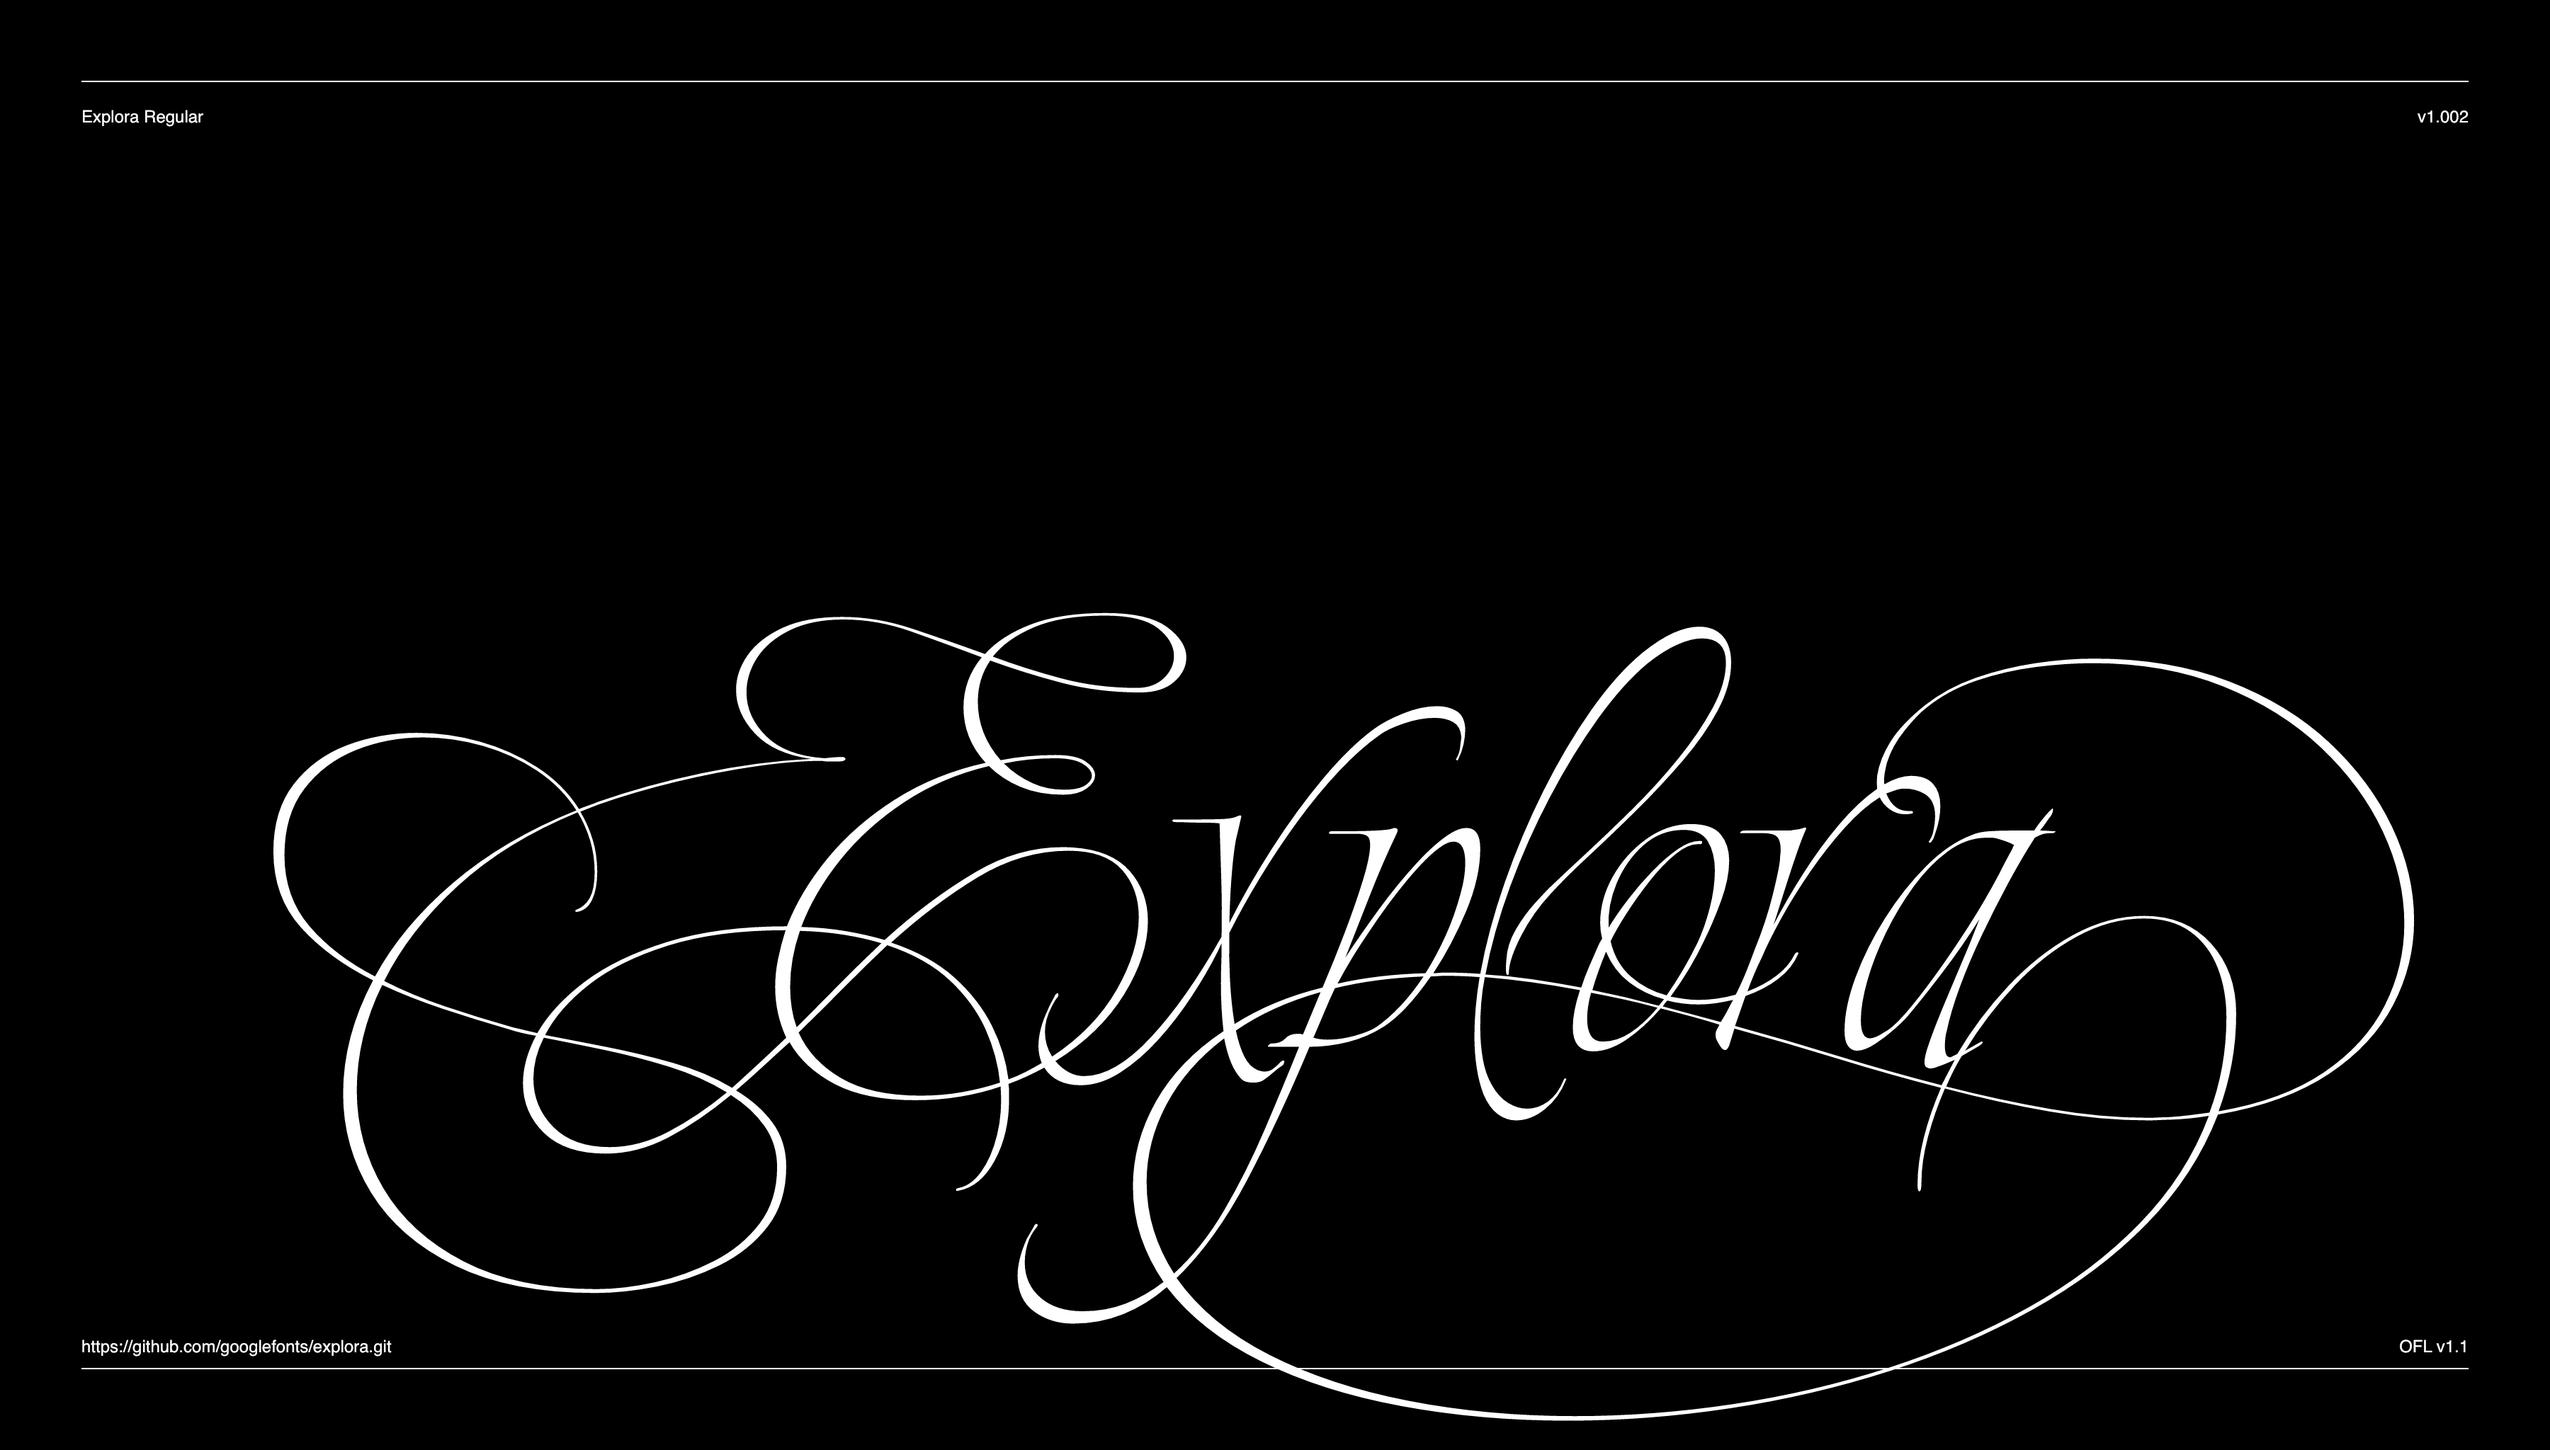
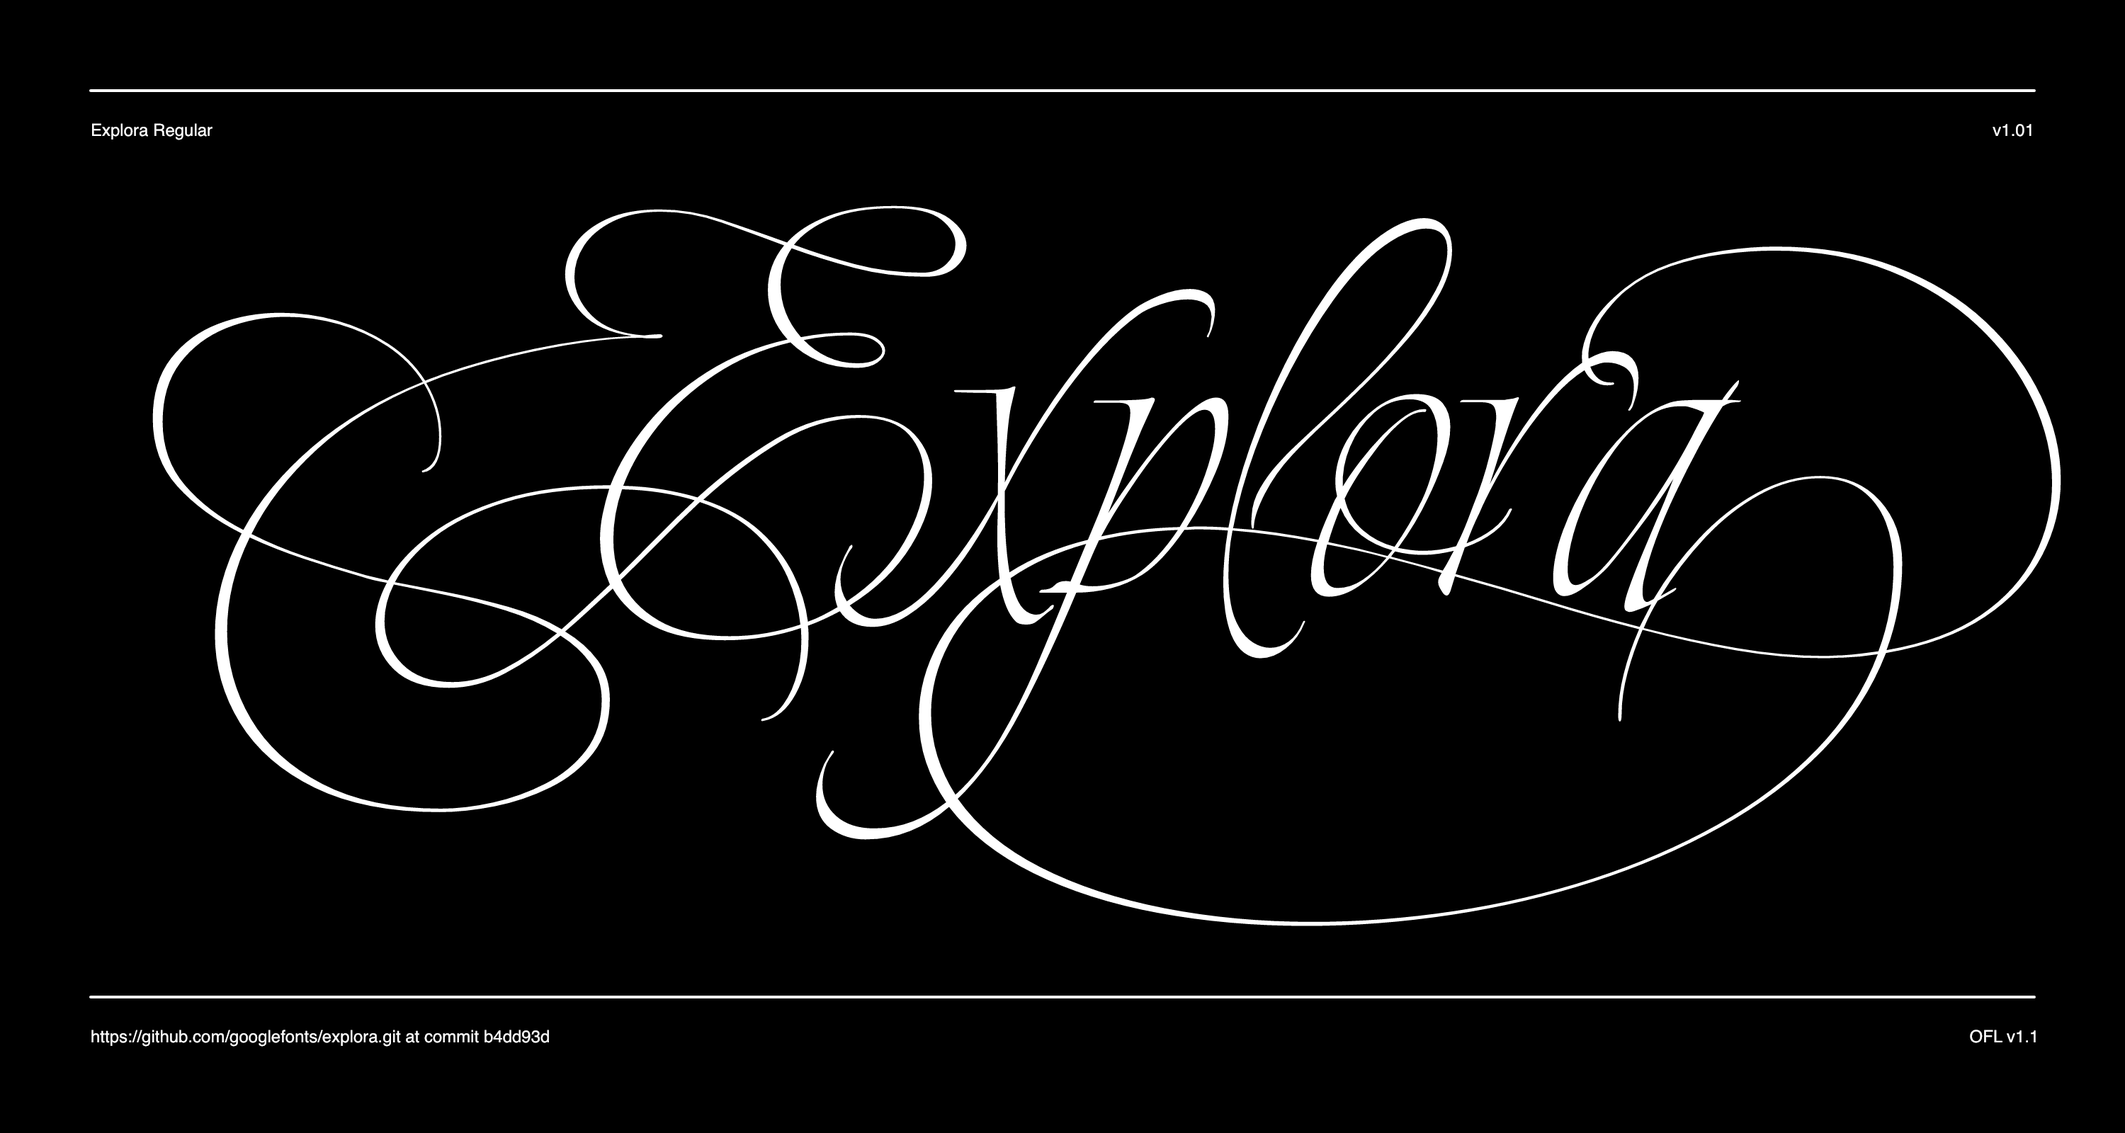
sample image updated

diff --git a/Documentation/image1.py b/Documentation/image1.py
@@ -1,0 +1,135 @@
+# This script is meant to be run from the root level
+# of your font's git repository. For example, from a Unix terminal:
+# $ git clone my-font
+# $ cd my-font
+# $ python3 documentation/image1.py --output documentation/image1.png
+
+# Import moduels from external python packages: https://pypi.org/
+from drawbot_skia.drawbot import *
+from fontTools.ttLib import TTFont
+from fontTools.misc.fixedTools import floatToFixedToStr
+
+# Import moduels from the Python Standard Library: https://docs.python.org/3/library/
+import subprocess
+import sys
+import argparse
+
+# Constants, these are the main "settings" for the image
+WIDTH, HEIGHT, MARGIN, FRAMES = 3000, 1600, 128, 1
+FONT_PATH = "../fonts/ttf/Explora-Regular.ttf"
+FONT_LICENSE = "OFL v1.1"
+AUXILIARY_FONT = "Helvetica"
+AUXILIARY_FONT_SIZE = 24
+BIG_TEXT = "Explora"
+BIG_TEXT_FONT_SIZE = 820
+BIG_TEXT_SIDE_MARGIN = MARGIN * 1.8
+BIG_TEXT_BOTTOM_MARGIN = MARGIN * 6
+GRID_VIEW = False # Change this to "True" for a grid overlay
+
+# Handel the "--output" flag
+# For example: $ python3 documentation/image1.py --output documentation/image1.png
+parser = argparse.ArgumentParser()
+parser.add_argument("--output", metavar="PNG", help="where to write the PNG file")
+args = parser.parse_args()
+
+# Load the font with the parts of fonttools that are imported with the line:
+# from fontTools.ttLib import TTFont
+# Docs Link: https://fonttools.readthedocs.io/en/latest/ttLib/ttFont.html
+ttFont = TTFont(FONT_PATH)
+
+# Constants that are worked out dynamically
+MY_URL = subprocess.check_output("git remote get-url origin", shell=True).decode()
+MY_HASH = subprocess.check_output("git rev-parse --short HEAD", shell=True).decode()
+FONT_NAME = ttFont["name"].getDebugName(4)
+FONT_VERSION = "v%s" % floatToFixedToStr(ttFont["head"].fontRevision, 16)
+
+
+# Draws a grid
+def grid():
+    stroke(1, 0, 0, 0.75)
+    strokeWidth(2)
+    STEP_X, STEP_Y = 0, 0
+    INCREMENT_X, INCREMENT_Y = MARGIN / 2, MARGIN / 2
+    rect(MARGIN, MARGIN, WIDTH - (MARGIN * 2), HEIGHT - (MARGIN * 2))
+    for x in range(29):
+        polygon((MARGIN + STEP_X, MARGIN), (MARGIN + STEP_X, HEIGHT - MARGIN))
+        STEP_X += INCREMENT_X
+    for y in range(29):
+        polygon((MARGIN, MARGIN + STEP_Y), (WIDTH - MARGIN, MARGIN + STEP_Y))
+        STEP_Y += INCREMENT_Y
+    polygon((WIDTH / 2, 0), (WIDTH / 2, HEIGHT))
+    polygon((0, HEIGHT / 2), (WIDTH, HEIGHT / 2))
+
+
+# Remap input range to VF axis range
+# This is useful for animation
+# (E.g. sinewave(-1,1) to wght(100,900))
+def remap(value, inputMin, inputMax, outputMin, outputMax):
+    inputSpan = inputMax - inputMin  # FIND INPUT RANGE SPAN
+    outputSpan = outputMax - outputMin  # FIND OUTPUT RANGE SPAN
+    valueScaled = float(value - inputMin) / float(inputSpan)
+    return outputMin + (valueScaled * outputSpan)
+
+
+# Draw the page/frame and a grid if "GRID_VIEW" is set to "True"
+def draw_background():
+    newPage(WIDTH, HEIGHT)
+    fill(0)
+    rect(-2, -2, WIDTH + 2, HEIGHT + 2)
+    if GRID_VIEW:
+        grid()
+    else:
+        pass
+
+
+# Draw main text
+def draw_main_text():
+    fill(1)
+    stroke(None)
+    font(FONT_PATH)
+    fontSize(BIG_TEXT_FONT_SIZE)
+    # Adjust this line to center main text manually.
+    # TODO: This should be done automatically when drawbot-skia
+    # has support for textBox() and FormattedString
+    #text(BIG_TEXT, ((WIDTH / 2) - MARGIN * 4.75, (HEIGHT / 2) - MARGIN * 2.5))
+    text(BIG_TEXT, (BIG_TEXT_SIDE_MARGIN, BIG_TEXT_BOTTOM_MARGIN))
+
+
+# Divider lines
+def draw_divider_lines():
+    stroke(1)
+    strokeWidth(4)
+    lineCap("round")
+    line((MARGIN, HEIGHT - MARGIN), (WIDTH - MARGIN, HEIGHT - MARGIN))
+    line((MARGIN, MARGIN + (MARGIN / 2)), (WIDTH - MARGIN, MARGIN + (MARGIN / 2)))
+    stroke(None)
+
+
+# Draw text describing the font and it's git status & repo URL
+def draw_auxiliary_text():
+    # Setup
+    font(AUXILIARY_FONT)
+    fontSize(AUXILIARY_FONT_SIZE)
+    POS_TOP_LEFT = (MARGIN, HEIGHT - MARGIN * 1.5)
+    POS_TOP_RIGHT = (WIDTH - MARGIN, HEIGHT - MARGIN * 1.5)
+    POS_BOTTOM_LEFT = (MARGIN, MARGIN)
+    POS_BOTTOM_RIGHT = (WIDTH - MARGIN * 0.95, MARGIN)
+    URL_AND_HASH = MY_URL + "at commit " + MY_HASH
+    URL_AND_HASH = URL_AND_HASH.replace("\n", " ")
+    # Draw Text
+    text(FONT_NAME, POS_TOP_LEFT, align="left")
+    text(FONT_VERSION, POS_TOP_RIGHT, align="right")
+    text(URL_AND_HASH, POS_BOTTOM_LEFT, align="left")
+    text(FONT_LICENSE, POS_BOTTOM_RIGHT, align="right")
+
+
+# Build and save the image
+if __name__ == "__main__":
+    draw_background()
+    draw_main_text()
+    draw_divider_lines()
+    draw_auxiliary_text()
+    # Save output, using the "--output" flag location
+    saveImage(args.output)
+    # Print done in the terminal
+    print("DrawBot: Done")
